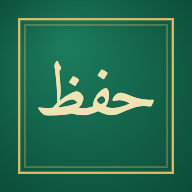
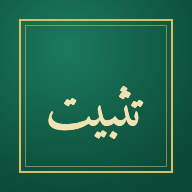
Renommage : Tathbīt (تثبيت), sous-titre « Coran et moutoun » ; icônes, manifeste, e-mails, notifications et textes

Changed region(s): [[0.0938, 0.0938, 0.9062, 0.9062], [0.1875, 0.3125, 0.8125, 0.7188]]

diff --git a/i18n.js b/i18n.js
@@ -149,6 +149,7 @@ window.I18N = {
 "Copier le code": "Copy the code",
 "Coran": "Quran",
 "Coran : texte uthmani du projet Tanzil, embarqué dans le site et vérifié (lecture de Ḥafṣ). Audio : cdn.islamic.network (AlQuran Cloud). Lecteur : tajwīd en couleurs (Islamic Network), traductions (Tanzil : Hamidullah, Saheeh International) et tafsir al-Muyassar (Complexe du Roi Fahd). Moutoun : Wikisource arabe et hadith-api (voir l'écran Réviser pour chaque matn). Versets proches : calculés automatiquement.": "Quran: Uthmani text from the Tanzil project, bundled with the site and verified (Ḥafṣ reading). Audio: cdn.islamic.network (AlQuran Cloud). Reader: colour-coded tajweed (Islamic Network), translations (Tanzil: Hamidullah, Saheeh International) and Tafsir al-Muyassar (King Fahd Complex). Mutun: Arabic Wikisource and hadith-api (see the Review screen for each text). Similar verses: computed automatically.",
+"Coran et moutoun": "Quran and mutun",
 "Correction de la saisie (Coran)": "Checking of typed answers (Quran)",
 "Correction stricte : tout doit être exact (en rouge : mots faux ou manquants).": "Strict checking: everything must be exact (in red: wrong or missing words).",
 "Couleurs du tajwīd : annotation automatique d'Islamic Network (api.alquran.cloud), non relue par un enseignant. Vérifie avec ton professeur ; elle suit une écriture légèrement différente du texte des exercices.": "Tajweed colours: automatic annotation by Islamic Network (api.alquran.cloud), not reviewed by a teacher. Check with your tajweed teacher; it uses a slightly different spelling convention from the exercise text.",
@@ -238,7 +239,7 @@ window.I18N = {
 "Fermer": "Close",
 "Fermer ce code de classe ? Les élèves déjà liés restent liés.": "Close this class code? Students already linked stay linked.",
 "Fichier Word illisible.": "Unreadable Word file.",
-"Fichier non reconnu : choisis une sauvegarde exportée depuis Hifz.": "Unrecognised file: choose a backup exported from Hifz.",
+"Fichier non reconnu : choisis une sauvegarde exportée depuis Tathbīt.": "Unrecognised file: choose a backup exported from Tathbīt.",
 "Fichier trop volumineux (30 Mo maximum).": "File too large (30 MB maximum).",
 "Fichier trop volumineux ({s} Mo, maximum {m} Mo). Découpe-le en plusieurs fichiers (ou prends plusieurs photos) et ajoute-les dans l'ordre du texte : chaque partie est ajoutée à la suite.": "File too large ({s} MB, maximum {m} MB). Split it into several files (or take several photos) and add them in the order of the text: each part is added after the previous one.",
 "Fin + début suivant": "End + next start",
@@ -252,9 +253,6 @@ window.I18N = {
 "Heure du 2e rappel": "Second reminder time",
 "Heure du rappel": "Reminder time",
 "Heure invalide.": "Invalid time.",
-"Hifz est un outil d'aide à la mémorisation, fourni gratuitement et sans garantie. Les textes (Coran, moutoun) viennent de sources publiques citées dans l'application et peuvent contenir des erreurs : vérifie toujours avec ton mushaf et ton enseignant. Tu es responsable de l'usage de ton compte et de la confidentialité de ton mot de passe. Un compte peut être suspendu en cas d'abus.": "Hifz is a memorisation aid, provided free of charge and without warranty. The texts (Quran, mutun) come from public sources cited in the app and may contain errors: always check with your mushaf and your teacher. You are responsible for how your account is used and for keeping your password private. An account may be suspended in case of abuse.",
-"Hifz est un site personnel et gratuit d'aide à la mémorisation du Coran. Responsable du site : contact par e-mail uniquement ({contact}).": "Hifz is a free personal site to help memorise the Quran. Site owner: contact by email only ({contact}).",
-"Hifz – Teste ta mémorisation du Coran": "Hifz – Test your Quran memorisation",
 "Historique des erreurs": "Error history",
 "Identifie d'où vient le verset": "Identify where the verse comes from",
 "Idghām avec ghunna": "Idghām with ghunna",
@@ -629,7 +627,7 @@ window.I18N = {
 "Révision ancienne : cycle de": "Old review: cycle of",
 "Révision ancienne : récite de mémoire ce passage.": "Old review: recite this passage from memory.",
 "Révision du Coran": "Quran review",
-"Révision du Coran (Hifz)": "Quran review (Hifz)",
+"Révision du Coran (Tathbīt)": "Quran review (Tathbīt)",
 "Révision récente (sabqi)": "Recent review (sabqi)",
 "Révision récente : récite de mémoire ce passage.": "Recent review: recite this passage from memory.",
 "Révision récente sur": "Recent review over",
@@ -704,6 +702,9 @@ window.I18N = {
 "Tajwīd": "Tajwīd",
 "Tajwīd (entraînement)": "Tajweed (practice)",
 "Tant que ton compte existe. Tu peux le supprimer à tout moment (Réglages, puis Mon compte) : ton compte et ta progression enregistrée sont alors effacés.": "As long as your account exists. You can delete it at any time (Settings, then My account): your account and saved progress are then erased.",
+"Tathbīt est un outil d'aide à la révision, fourni gratuitement et sans garantie. Les textes (Coran, moutoun) viennent de sources publiques citées dans l'application et peuvent contenir des erreurs : vérifie toujours avec ton mushaf et ton enseignant. Tu es responsable de l'usage de ton compte et de la confidentialité de ton mot de passe. Un compte peut être suspendu en cas d'abus.": "Tathbīt is a review aid, provided free of charge and without warranty. The texts (Quran, mutun) come from public sources cited in the app and may contain errors: always check with your mushaf and your teacher. You are responsible for how your account is used and for keeping your password private. An account may be suspended in case of abuse.",
+"Tathbīt est un site personnel et gratuit d'aide à la révision du Coran et des moutoun. Responsable du site : contact par e-mail uniquement ({contact}).": "Tathbīt is a free personal site to help review the Quran and the mutun. Site owner: contact by email only ({contact}).",
+"Tathbīt – Coran et moutoun": "Tathbīt – Quran and mutun",
 "Taux (%)": "Rate (%)",
 "Te déconnecter ? La progression de cet appareil sera effacée (elle reste dans ton compte).": "Sign out? The progress on this device will be erased (it stays in your account).",
 "Terminé : disponible sans connexion.": "Done: available offline.",
@@ -1136,6 +1137,7 @@ window.I18N = {
 "Copier le code": "انسخ الرمز",
 "Coran": "القرآن",
 "Coran : texte uthmani du projet Tanzil, embarqué dans le site et vérifié (lecture de Ḥafṣ). Audio : cdn.islamic.network (AlQuran Cloud). Lecteur : tajwīd en couleurs (Islamic Network), traductions (Tanzil : Hamidullah, Saheeh International) et tafsir al-Muyassar (Complexe du Roi Fahd). Moutoun : Wikisource arabe et hadith-api (voir l'écran Réviser pour chaque matn). Versets proches : calculés automatiquement.": "القرآن: النص العثماني من مشروع تنزيل، مضمَّن في الموقع ومُتحقَّق منه (قراءة حفص). الصوت: cdn.islamic.network (AlQuran Cloud). القارئ: تجويد ملوَّن (الشبكة الإسلامية) وترجمات (تنزيل: حميد الله، Saheeh International) والتفسير الميسر (مجمع الملك فهد). المتون: ويكي مصدر العربية وhadith-api (انظر شاشة «مراجعة» لكل متن). الآيات المتشابهة: تُحسب تلقائياً.",
+"Coran et moutoun": "القرآن والمتون",
 "Correction de la saisie (Coran)": "تصحيح الإجابة المكتوبة (القرآن)",
 "Correction stricte : tout doit être exact (en rouge : mots faux ou manquants).": "تصحيح صارم: يجب أن يكون كل شيء دقيقاً (بالأحمر: كلمات خاطئة أو ناقصة).",
 "Couleurs du tajwīd : annotation automatique d'Islamic Network (api.alquran.cloud), non relue par un enseignant. Vérifie avec ton professeur ; elle suit une écriture légèrement différente du texte des exercices.": "ألوان التجويد: توسيم آلي من الشبكة الإسلامية (api.alquran.cloud) لم يراجعه معلّم. تحقّق مع معلّم التجويد؛ وهو يتبع رسماً يختلف قليلاً عن نص التمارين.",
@@ -1225,7 +1227,7 @@ window.I18N = {
 "Fermer": "إغلاق",
 "Fermer ce code de classe ? Les élèves déjà liés restent liés.": "إغلاق رمز الفصل هذا؟ يبقى الطلاب المرتبطون مرتبطين.",
 "Fichier Word illisible.": "ملف Word غير قابل للقراءة.",
-"Fichier non reconnu : choisis une sauvegarde exportée depuis Hifz.": "ملف غير معروف: اختر نسخة احتياطية مصدَّرة من «حفظ».",
+"Fichier non reconnu : choisis une sauvegarde exportée depuis Tathbīt.": "ملف غير معروف: اختر نسخة احتياطية مصدَّرة من «تثبيت».",
 "Fichier trop volumineux (30 Mo maximum).": "الملف كبير جداً (الحد الأقصى 30 ميغابايت).",
 "Fichier trop volumineux ({s} Mo, maximum {m} Mo). Découpe-le en plusieurs fichiers (ou prends plusieurs photos) et ajoute-les dans l'ordre du texte : chaque partie est ajoutée à la suite.": "الملف كبير جداً ({s} ميغابايت، الحد الأقصى {m}). قسّمه إلى عدة ملفات (أو التقط عدة صور) وأضفها بترتيب النص: تُضاف كل قطعة بعد التي قبلها.",
 "Fin + début suivant": "الخاتمة + بداية التالية",
@@ -1239,9 +1241,6 @@ window.I18N = {
 "Heure du 2e rappel": "وقت التذكير الثاني",
 "Heure du rappel": "وقت التذكير",
 "Heure invalide.": "وقت غير صالح.",
-"Hifz est un outil d'aide à la mémorisation, fourni gratuitement et sans garantie. Les textes (Coran, moutoun) viennent de sources publiques citées dans l'application et peuvent contenir des erreurs : vérifie toujours avec ton mushaf et ton enseignant. Tu es responsable de l'usage de ton compte et de la confidentialité de ton mot de passe. Un compte peut être suspendu en cas d'abus.": "«حفظ» أداة للمساعدة على الحفظ، تُقدَّم مجاناً ودون ضمان. النصوص (القرآن والمتون) مأخوذة من مصادر عامة مذكورة في التطبيق وقد تحتوي على أخطاء: تحقّق دائماً من مصحفك ومن معلّمك. أنت مسؤول عن استخدام حسابك وعن سرّية كلمة مرورك. يجوز إيقاف الحساب عند إساءة الاستخدام.",
-"Hifz est un site personnel et gratuit d'aide à la mémorisation du Coran. Responsable du site : contact par e-mail uniquement ({contact}).": "«حفظ» موقع شخصي ومجاني للمساعدة على حفظ القرآن. المسؤول عن الموقع: التواصل عبر البريد الإلكتروني فقط ({contact}).",
-"Hifz – Teste ta mémorisation du Coran": "حفظ – اختبر حفظك للقرآن",
 "Historique des erreurs": "سجل الأخطاء",
 "Identifie d'où vient le verset": "حدّد مصدر الآية",
 "Idghām avec ghunna": "إدغام بغنّة",
@@ -1616,7 +1615,7 @@ window.I18N = {
 "Révision ancienne : cycle de": "المراجعة القديمة: دورة من",
 "Révision ancienne : récite de mémoire ce passage.": "مراجعة قديمة: اتلُ هذا المقطع من الذاكرة.",
 "Révision du Coran": "مراجعة القرآن",
-"Révision du Coran (Hifz)": "مراجعة القرآن (حفظ)",
+"Révision du Coran (Tathbīt)": "مراجعة القرآن (تثبيت)",
 "Révision récente (sabqi)": "المراجعة القريبة (السبقي)",
 "Révision récente : récite de mémoire ce passage.": "مراجعة قريبة: اتلُ هذا المقطع من الذاكرة.",
 "Révision récente sur": "المراجعة القريبة خلال",
@@ -1691,6 +1690,9 @@ window.I18N = {
 "Tajwīd": "التجويد",
 "Tajwīd (entraînement)": "التجويد (تدريب)",
 "Tant que ton compte existe. Tu peux le supprimer à tout moment (Réglages, puis Mon compte) : ton compte et ta progression enregistrée sont alors effacés.": "ما دام حسابك قائماً. يمكنك حذفه في أي وقت (الإعدادات ثم حسابي): فيُمحى حسابك وتقدّمك المحفوظ.",
+"Tathbīt est un outil d'aide à la révision, fourni gratuitement et sans garantie. Les textes (Coran, moutoun) viennent de sources publiques citées dans l'application et peuvent contenir des erreurs : vérifie toujours avec ton mushaf et ton enseignant. Tu es responsable de l'usage de ton compte et de la confidentialité de ton mot de passe. Un compte peut être suspendu en cas d'abus.": "«تثبيت» أداة للمساعدة على المراجعة، تُقدَّم مجاناً ودون ضمان. النصوص (القرآن والمتون) مأخوذة من مصادر عامة مذكورة في التطبيق وقد تحتوي على أخطاء: تحقّق دائماً من مصحفك ومن معلّمك. أنت مسؤول عن استخدام حسابك وعن سرّية كلمة مرورك. يجوز إيقاف الحساب عند إساءة الاستخدام.",
+"Tathbīt est un site personnel et gratuit d'aide à la révision du Coran et des moutoun. Responsable du site : contact par e-mail uniquement ({contact}).": "«تثبيت» موقع شخصي ومجاني للمساعدة على مراجعة القرآن والمتون. المسؤول عن الموقع: التواصل عبر البريد الإلكتروني فقط ({contact}).",
+"Tathbīt – Coran et moutoun": "تثبيت – القرآن والمتون",
 "Taux (%)": "النسبة (%)",
 "Te déconnecter ? La progression de cet appareil sera effacée (elle reste dans ton compte).": "هل تريد تسجيل الخروج؟ سيُمسح التقدّم على هذا الجهاز (ويبقى في حسابك).",
 "Terminé : disponible sans connexion.": "تم: متاح دون اتصال.",

diff --git a/index.html b/index.html
@@ -9,9 +9,9 @@
 <link rel="apple-touch-icon" href="icons/apple-touch-icon.png">
 <meta name="apple-mobile-web-app-capable" content="yes">
 <meta name="mobile-web-app-capable" content="yes">
-<meta name="apple-mobile-web-app-title" content="Hifz">
+<meta name="apple-mobile-web-app-title" content="Tathbīt">
 <meta name="apple-mobile-web-app-status-bar-style" content="default">
-<title>Hifz – Teste ta mémorisation du Coran</title>
+<title>Tathbīt – Coran et moutoun</title>
 <link rel="preload" href="fonts/inter-latin.woff2" as="font" type="font/woff2" crossorigin>
 <link rel="preload" href="fonts/amiri-quran-arabic.woff2" as="font" type="font/woff2" crossorigin>
 <link rel="stylesheet" href="fonts/fonts.css">
@@ -202,6 +202,7 @@ button.big{border-radius:14px}
 .hero .logo{width:48px;height:48px;border-radius:50%;background:radial-gradient(circle at 30% 25%,color-mix(in srgb,var(--accent) 70%,#fff),var(--accent));border:2px solid var(--gold);color:var(--gold-soft);
   box-shadow:0 0 0 4px color-mix(in srgb,var(--gold) 22%,transparent)}
 .hero h1{font-size:2.1rem}
+.hero .logo{font-size:.95rem;line-height:1}.hero p.tag{font-weight:600;color:var(--accent);font-size:.95rem;margin-top:2px}
 .bar,.goal{height:8px;border-radius:8px;background:color-mix(in srgb,var(--gold) 22%,var(--line))}
 .bar i,.goal i{background:linear-gradient(90deg,var(--accent),var(--gold));border-radius:8px}
 .stat div{background:color-mix(in srgb,var(--bg) 55%,var(--card));border:1px solid var(--line);border-radius:14px}
@@ -290,7 +291,7 @@ const trp = (n, k, v) => { const [a, b] = lookup(k).split('|'); return fill((LAN
 const LOCALE = () => ({fr: 'fr-FR', en: 'en-GB', ar: 'ar-u-nu-latn'})[LANG];
 function applyLang(){
   document.documentElement.lang = LANG; document.documentElement.dir = LANG === 'ar' ? 'rtl' : 'ltr';
-  document.title = tr('Hifz – Teste ta mémorisation du Coran');
+  document.title = tr('Tathbīt – Coran et moutoun');
   const b = document.getElementById('boot'); if (b) b.textContent = tr('Chargement du texte du Coran…');
 }
 
@@ -719,7 +720,7 @@ function tabHome(){
   const due = dueRefs(), td = days[today()] || 0, st = streak();
   const top = aggErrors(errors.filter(e => e.t >= Date.now() - 7 * 864e5)).slice(0, 3);
   return `
-  <div class="hero"><div class="logo">حفظ</div><div><h1>Hifz</h1><p>${me ? esc(me.user.email) + ' ' + roleChips() : tr('Que ta mémorisation soit bénie.')}</p></div></div>
+  <div class="hero"><div class="logo">تثبيت</div><div><h1>Tathbīt</h1><p class="tag">${tr('Coran et moutoun')}</p><p>${me ? esc(me.user.email) + ' ' + roleChips() : tr('Que ta mémorisation soit bénie.')}</p></div></div>
   ${cloudOn() && !me ? `<div class="card"><h2>${tr('Sauvegarde ta progression')}</h2><p class="sub" style="margin:0 0 8px">${tr('Crée un compte gratuit pour retrouver tes séries, tes erreurs et ton historique sur tous tes appareils.')}</p>
     <div class="row"><button class="pri" data-act="acc-open" data-v="signup">${tr('Créer un compte')}</button><button data-act="acc-open" data-v="login">${tr('Se connecter')}</button></div></div>` : ''}
 
@@ -2022,9 +2023,9 @@ function exportIcs(){
   const d = new Date(), p = n => String(n).padStart(2, '0');
   const ymd = d.getFullYear() + p(d.getMonth() + 1) + p(d.getDate());
   const url = location.protocol.startsWith('http') ? '\\n' + location.href : '';
-  const ics = ['BEGIN:VCALENDAR', 'VERSION:2.0', 'PRODID:-//Hifz//FR', 'BEGIN:VEVENT', 'UID:hifz-rappel-quotidien',
+  const ics = ['BEGIN:VCALENDAR', 'VERSION:2.0', 'PRODID:-//Tathbīt//FR', 'BEGIN:VEVENT', 'UID:hifz-rappel-quotidien',
     'DTSTAMP:' + ymd + 'T000000Z', `DTSTART:${ymd}T${p(h)}${p(m)}00`, 'DURATION:PT15M', 'RRULE:FREQ=DAILY',
-    'SUMMARY:' + tr('Révision du Coran (Hifz)'), 'DESCRIPTION:' + tr('Fais ta révision du jour.') + url,
+    'SUMMARY:' + tr('Révision du Coran (Tathbīt)'), 'DESCRIPTION:' + tr('Fais ta révision du jour.') + url,
     'BEGIN:VALARM', 'TRIGGER:PT0S', 'ACTION:DISPLAY', 'DESCRIPTION:' + tr('Révision du Coran'), 'END:VALARM', 'END:VEVENT', 'END:VCALENDAR'].join('\r\n');
   download('rappel-hifz.ics', ics, 'text/calendar');
 }
@@ -2103,7 +2104,7 @@ async function importFile(f){
     store.set('hifz.cfg', d.cfg || {}); store.set('hifz.stats', d.stats); store.set('hifz.sched', d.sched || {});
     store.set('hifz.days', d.days || {}); store.set('hifz.custom', d.custom || []); store.set('hifz.errors', d.errors || []); store.set('hifz.plan', d.plan || null);
     location.reload();
-  } catch { alert(tr('Fichier non reconnu : choisis une sauvegarde exportée depuis Hifz.')); }
+  } catch { alert(tr('Fichier non reconnu : choisis une sauvegarde exportée depuis Tathbīt.')); }
 }
 
 /* ---------- import d'un matn depuis une photo, un PDF ou un fichier Word : tout est lu DANS le navigateur ---------- */
@@ -2690,7 +2691,7 @@ function results(){
 }
 
 /* ---------- compte (Supabase) : inscription, connexion, synchronisation, espace admin ---------- */
-const APP_VERSION = '23 oct. 2026 · v51';
+const APP_VERSION = '23 oct. 2026 · v52';
 async function forceUpdate(el){
   if (!navigator.onLine) return alert(tr('Pas de connexion : connecte-toi à internet pour mettre à jour.'));
   el.disabled = true; el.textContent = tr('Mise à jour…');
@@ -2891,7 +2892,7 @@ function renderAccount(){
   const gate = cloudOn() && !me; acc.fromGate = gate;
   const langBar = `<div class="langs">${Object.entries(LANGS).map(([k, n]) => `<button class="${LANG === k ? 'sel' : ''}" data-act="lang" data-v="${k}" lang="${k}">${n}</button>`).join('')}</div>`;
   $app.innerHTML = `${gate ? langBar : `<div class="top"><button class="link" data-act="acc-back">${tr('← Retour')}</button><span>${tr('Compte')}</span></div>`}
-    ${gate ? `<div class="hero" style="margin-top:8px"><div class="logo">حفظ</div><div><h1>Hifz</h1><p>${tr("Crée un compte ou connecte-toi pour accéder à l'application.")}</p></div></div>` : `<h1 style="margin-top:8px">${tr('Mon compte')}</h1>`}
+    ${gate ? `<div class="hero" style="margin-top:8px"><div class="logo">تثبيت</div><div><h1>Tathbīt</h1><p class="tag">${tr('Coran et moutoun')}</p><p>${tr("Crée un compte ou connecte-toi pour accéder à l'application.")}</p></div></div>` : `<h1 style="margin-top:8px">${tr('Mon compte')}</h1>`}
     ${acc.msg && cloudOn() && sb ? `<div id="acc-msg" class="fb ${acc.ok ? 'ok' : 'ko'}">${esc(acc.msg)}</div>` : ''}
     ${acc.resend && !me && sb && !acc.mode.startsWith('newp') ? `<p style="margin:0 0 10px;text-align:center"><button class="link" data-act="acc-resend">✉ ${tr("Renvoyer l'e-mail de confirmation")}</button></p>` : ''}${body}`;
   clearTimeout(msgTimer);
@@ -3125,7 +3126,7 @@ async function remAction(act){
     else if (act === 'rem-test'){
       if (Notification.permission !== 'granted') throw new Error(tr('Notifications refusées : autorise-les dans les réglages de ton téléphone.'));
       const reg = await navigator.serviceWorker.ready;
-      await reg.showNotification('Hifz', {body: tr("C'est l'heure de ta révision 📖"), icon: 'icons/icon-192.png', tag: 'hifz-test'});
+      await reg.showNotification('Tathbīt', {body: tr("C'est l'heure de ta révision 📖"), icon: 'icons/icon-192.png', tag: 'hifz-test'});
       remMsg(tr('Notification de test envoyée.'), true);
     }
   } catch (e){ remMsg(friendly(e), false); }
@@ -3144,7 +3145,7 @@ function renderLegal(){
   $app.innerHTML = `<div class="top"><button class="link" data-act="legal-back">${tr('← Retour')}</button><span>${tr('Confidentialité')}</span></div>
     <h1 style="margin-top:8px">${tr("Confidentialité et conditions d'utilisation")}</h1>
     <p class="sub">${tr('Dernière mise à jour : {d}', {d: date})}</p>
-    ${sec('Qui est responsable ?', [tr("Hifz est un site personnel et gratuit d'aide à la mémorisation du Coran. Responsable du site : contact par e-mail uniquement ({contact}).", {contact})])}
+    ${sec('Qui est responsable ?', [tr("Tathbīt est un site personnel et gratuit d'aide à la révision du Coran et des moutoun. Responsable du site : contact par e-mail uniquement ({contact}).", {contact})])}
     ${sec('Quelles données ?', [tr("Compte : ton adresse e-mail, ton mot de passe (transmis au service d'authentification Supabase, qui le stocke de façon sécurisée ; ce site ne le conserve pas), la date d'inscription, ta dernière activité et ton rôle."),
       tr("Progression : tes statistiques, ton historique d'erreurs (y compris les réponses que tu saisis), ton plan de mémorisation, tes réglages et les textes que tu ajoutes toi-même."),
       tr("Rappels (facultatif) : si tu actives les notifications, l'adresse technique de ton appareil pour les notifications (fournie par Apple, Google ou Mozilla), l'heure choisie, ton fuseau horaire et ta langue sont enregistrés pour t'envoyer le rappel, qui transite par le service de notifications de ton système. Tu peux les désactiver à tout moment dans Réglages."),
@@ -3160,7 +3161,7 @@ function renderLegal(){
     ${sec('Stockage sur ton appareil', [tr("Ce site n'utilise ni cookies publicitaires ni outil de mesure d'audience. Il garde sur ton appareil (stockage local et cache du navigateur) ta session, ta progression, les fichiers de l'application pour fonctionner hors ligne et, si tu les télécharges, les fichiers audio des sourates choisies."),
       tr("Les photos et fichiers que tu importes pour ajouter un matn sont lus directement sur ton appareil : ils ne sont pas envoyés à un serveur.")])}
     ${sec('Sécurité', [tr("Les échanges sont chiffrés (HTTPS) et l'accès aux données est limité par des règles de la base de données : chacun ne voit que ses propres données, seul l'administrateur voit l'ensemble.")])}
-    ${sec("Conditions d'utilisation", [tr("Hifz est un outil d'aide à la mémorisation, fourni gratuitement et sans garantie. Les textes (Coran, moutoun) viennent de sources publiques citées dans l'application et peuvent contenir des erreurs : vérifie toujours avec ton mushaf et ton enseignant. Tu es responsable de l'usage de ton compte et de la confidentialité de ton mot de passe. Un compte peut être suspendu en cas d'abus.")])}
+    ${sec("Conditions d'utilisation", [tr("Tathbīt est un outil d'aide à la révision, fourni gratuitement et sans garantie. Les textes (Coran, moutoun) viennent de sources publiques citées dans l'application et peuvent contenir des erreurs : vérifie toujours avec ton mushaf et ton enseignant. Tu es responsable de l'usage de ton compte et de la confidentialité de ton mot de passe. Un compte peut être suspendu en cas d'abus.")])}
     ${sec('Modifications', [tr("Cette page peut évoluer ; la date de dernière mise à jour est indiquée en haut.")])}`;
   window.scrollTo(0, 0);
 }

diff --git a/supabase/functions/send-reminders/index.ts b/supabase/functions/send-reminders/index.ts
@@ -12,9 +12,9 @@ import { SMTPClient } from 'https://deno.land/x/denomailer@1.6.0/mod.ts';
 type Sub = { id: number; user_id: string; endpoint: string; p256dh: string; auth: string; remind_time: string; remind_time2: string | null; tz: string; lang: string; last_sent: string | null; last_sent2: string | null };
 
 const MSG: Record<string, { title: string; plain: string; due: (n: number) => string; late: string }> = {
-  fr: { title: 'Hifz', plain: "C'est l'heure de ta révision 📖", due: (n) => `${n} verset${n > 1 ? 's' : ''} à revoir aujourd'hui 📖`, late: "Il n'est pas trop tard pour ta révision du jour 🌙" },
-  en: { title: 'Hifz', plain: 'Time for your review 📖', due: (n) => `${n} verse${n !== 1 ? 's' : ''} to review today 📖`, late: "It's not too late for today's review 🌙" },
-  ar: { title: 'حفظ', plain: 'حان وقت مراجعتك 📖', due: (n) => `${n} ${n === 1 ? 'آية' : 'آيات'} للمراجعة اليوم 📖`, late: 'لم يفت الأوان بعد لمراجعة اليوم 🌙' },
+  fr: { title: 'Tathbīt', plain: "C'est l'heure de ta révision 📖", due: (n) => `${n} verset${n > 1 ? 's' : ''} à revoir aujourd'hui 📖`, late: "Il n'est pas trop tard pour ta révision du jour 🌙" },
+  en: { title: 'Tathbīt', plain: 'Time for your review 📖', due: (n) => `${n} verse${n !== 1 ? 's' : ''} to review today 📖`, late: "It's not too late for today's review 🌙" },
+  ar: { title: 'تثبيت', plain: 'حان وقت مراجعتك 📖', due: (n) => `${n} ${n === 1 ? 'آية' : 'آيات'} للمراجعة اليوم 📖`, late: 'لم يفت الأوان بعد لمراجعة اليوم 🌙' },
 };
 
 // date (AAAA-MM-JJ) et minutes écoulées dans la journée, dans le fuseau de l'appareil
@@ -39,9 +39,9 @@ function decide(sub: Sub, now: Date) {
 }
 
 const REQ = {
-  fr: (e: string) => ({ title: 'Hifz · demande enseignant', body: `${e} demande à devenir enseignant.` }),
-  en: (e: string) => ({ title: 'Hifz · teacher request', body: `${e} asks to become a teacher.` }),
-  ar: (e: string) => ({ title: 'حفظ · طلب معلّم', body: `${e} يطلب أن يصبح معلّماً.` }),
+  fr: (e: string) => ({ title: 'Tathbīt · demande enseignant', body: `${e} demande à devenir enseignant.` }),
+  en: (e: string) => ({ title: 'Tathbīt · teacher request', body: `${e} asks to become a teacher.` }),
+  ar: (e: string) => ({ title: 'تثبيت · طلب معلّم', body: `${e} يطلب أن يصبح معلّماً.` }),
 };
 
 // demandes d'enseignant pas encore signalées : notification aux appareils des admins + e-mail aux admins (si SMTP configuré)
@@ -68,8 +68,8 @@ async function notifyRequests(db: ReturnType<typeof createClient>) {
     if (smtpUser && smtpPass) {
       try {
         const c = new SMTPClient({ connection: { hostname: 'smtp.gmail.com', port: 465, tls: true, auth: { username: smtpUser, password: smtpPass } } });
-        await c.send({ from: smtpUser, to: (admins ?? []).map((a: { email: string }) => a.email), subject: 'Hifz : demande pour devenir enseignant',
-          content: `${email} demande à devenir enseignant.\n\nPour accepter ou refuser : Hifz → Réglages → Compte → Espace admin → « Demandes d'enseignant ».` });
+        await c.send({ from: smtpUser, to: (admins ?? []).map((a: { email: string }) => a.email), subject: 'Tathbīt : demande pour devenir enseignant',
+          content: `${email} demande à devenir enseignant.\n\nPour accepter ou refuser : Tathbīt → Réglages → Compte → Espace admin → « Demandes d'enseignant ».` });
         await c.close(); ok = true;
       } catch (e) { console.error('mail admin', (e as Error).message); }
     }
@@ -89,9 +89,9 @@ function weekSummary(days: Record<string, number>, now: Date) {
   return { total, active, streak };
 }
 const WK = {
-  fr: { subject: 'Hifz : ta semaine', body: (w: { total: number; active: number; streak: number }) => `Cette semaine : ${w.total} réponse${w.total > 1 ? 's' : ''}, ${w.active} jour${w.active > 1 ? 's' : ''} actif${w.active > 1 ? 's' : ''} sur 7.\n${w.active === 0 ? "Une petite révision aujourd'hui relancera la régularité." : 'Continue comme ça, la régularité fait la mémorisation.'}\n\nPour ne plus recevoir ce résumé : Hifz → Réglages → Compte.` },
-  en: { subject: 'Hifz: your week', body: (w: { total: number; active: number; streak: number }) => `This week: ${w.total} answer${w.total !== 1 ? 's' : ''}, ${w.active} active day${w.active !== 1 ? 's' : ''} out of 7.\n${w.active === 0 ? 'A short review today will restart your routine.' : 'Keep going: regularity builds memorisation.'}\n\nTo stop receiving this summary: Hifz → Settings → Account.` },
-  ar: { subject: 'حفظ: أسبوعك', body: (w: { total: number; active: number; streak: number }) => `هذا الأسبوع: ${w.total} إجابة، و${w.active} أيام نشطة من 7.\n${w.active === 0 ? 'مراجعة قصيرة اليوم تعيد لك انتظامك.' : 'واصل: الانتظام يصنع الحفظ.'}\n\nلإيقاف هذا الملخص: حفظ ← الإعدادات ← الحساب.` },
+  fr: { subject: 'Tathbīt : ta semaine', body: (w: { total: number; active: number; streak: number }) => `Cette semaine : ${w.total} réponse${w.total > 1 ? 's' : ''}, ${w.active} jour${w.active > 1 ? 's' : ''} actif${w.active > 1 ? 's' : ''} sur 7.\n${w.active === 0 ? "Une petite révision aujourd'hui relancera la régularité." : 'Continue comme ça, la régularité fait la mémorisation.'}\n\nPour ne plus recevoir ce résumé : Tathbīt → Réglages → Compte.` },
+  en: { subject: 'Tathbīt: your week', body: (w: { total: number; active: number; streak: number }) => `This week: ${w.total} answer${w.total !== 1 ? 's' : ''}, ${w.active} active day${w.active !== 1 ? 's' : ''} out of 7.\n${w.active === 0 ? 'A short review today will restart your routine.' : 'Keep going: regularity builds memorisation.'}\n\nTo stop receiving this summary: Tathbīt → Settings → Account.` },
+  ar: { subject: 'تثبيت: أسبوعك', body: (w: { total: number; active: number; streak: number }) => `هذا الأسبوع: ${w.total} إجابة، و${w.active} أيام نشطة من 7.\n${w.active === 0 ? 'مراجعة قصيرة اليوم تعيد لك انتظامك.' : 'واصل: الانتظام يصنع الحفظ.'}\n\nلإيقاف هذا الملخص: تثبيت ← الإعدادات ← الحساب.` },
 };
 // WK:end
 
@@ -118,9 +118,9 @@ async function sendWeekly(db: ReturnType<typeof createClient>, now: Date) {
 }
 
 const MSGN = {
-  fr: (e: string) => ({ title: 'Hifz · nouveau message', body: `Message de ${e}` }),
-  en: (e: string) => ({ title: 'Hifz · new message', body: `Message from ${e}` }),
-  ar: (e: string) => ({ title: 'حفظ · رسالة جديدة', body: `رسالة من ${e}` }),
+  fr: (e: string) => ({ title: 'Tathbīt · nouveau message', body: `Message de ${e}` }),
+  en: (e: string) => ({ title: 'Tathbīt · new message', body: `Message from ${e}` }),
+  ar: (e: string) => ({ title: 'تثبيت · رسالة جديدة', body: `رسالة من ${e}` }),
 };
 
 // messages enseignant ↔ élève pas encore signalés : notification au destinataire (sans le texte du message)

diff --git a/supabase/emails/reset-password.html b/supabase/emails/reset-password.html
@@ -2,17 +2,17 @@
 <html lang="fr"><body style="margin:0;padding:24px;background:#f5efe0;font-family:Arial,Helvetica,sans-serif;color:#222">
 <table role="presentation" width="100%" cellpadding="0" cellspacing="0"><tr><td align="center">
 <table role="presentation" width="480" cellpadding="0" cellspacing="0" style="max-width:480px;background:#fffdf6;border:1px solid #e4d9bd;border-radius:12px">
-<tr><td style="padding:24px 24px 8px;text-align:center"><div style="font-size:34px;line-height:1.2">حفظ</div><div style="font-size:18px;font-weight:bold;letter-spacing:.5px">Hifz</div></td></tr>
+<tr><td style="padding:24px 24px 8px;text-align:center"><div style="font-size:34px;line-height:1.2">تثبيت</div><div style="font-size:18px;font-weight:bold;letter-spacing:.5px">Tathbīt</div></td></tr>
 <tr><td style="padding:8px 24px 0">
-<h2 style="margin:12px 0 6px;font-size:18px;text-align:left">Réinitialise ton mot de passe</h2><p style="margin:0 0 14px;line-height:1.6;text-align:left">Tu as demandé à changer ton mot de passe Hifz. Clique sur le bouton pour en choisir un nouveau.</p>
+<h2 style="margin:12px 0 6px;font-size:18px;text-align:left">Réinitialise ton mot de passe</h2><p style="margin:0 0 14px;line-height:1.6;text-align:left">Tu as demandé à changer ton mot de passe Tathbīt. Clique sur le bouton pour en choisir un nouveau.</p>
 <p style="text-align:center;margin:18px 0"><a href="{{ .ConfirmationURL }}" style="background:#7a5c1e;color:#fff;text-decoration:none;padding:12px 22px;border-radius:8px;display:inline-block;font-weight:bold">Choisir un nouveau mot de passe</a></p>
 <p style="margin:0 0 18px;font-size:13px;color:#666;line-height:1.5;text-align:left">Si tu n'es pas à l'origine de cette demande, ignore ce message : ton mot de passe ne changera pas.</p>
 <hr style="border:0;border-top:1px solid #e4d9bd;margin:16px 0">
-<h2 style="margin:12px 0 6px;font-size:18px;text-align:left">Reset your password</h2><p style="margin:0 0 14px;line-height:1.6;text-align:left">You asked to change your Hifz password. Click the button to choose a new one.</p>
+<h2 style="margin:12px 0 6px;font-size:18px;text-align:left">Reset your password</h2><p style="margin:0 0 14px;line-height:1.6;text-align:left">You asked to change your Tathbīt password. Click the button to choose a new one.</p>
 <p style="text-align:center;margin:18px 0"><a href="{{ .ConfirmationURL }}" style="background:#7a5c1e;color:#fff;text-decoration:none;padding:12px 22px;border-radius:8px;display:inline-block;font-weight:bold">Choose a new password</a></p>
 <p style="margin:0 0 18px;font-size:13px;color:#666;line-height:1.5;text-align:left">If you did not request this, ignore this message: your password will not change.</p>
 <hr style="border:0;border-top:1px solid #e4d9bd;margin:16px 0">
-<h2 dir="rtl" style="margin:12px 0 6px;font-size:18px;text-align:right">إعادة تعيين كلمة المرور</h2><p dir="rtl" style="margin:0 0 14px;line-height:1.6;text-align:right">طلبتَ تغيير كلمة مرور حفظ. اضغط على الزر لاختيار كلمة جديدة.</p>
+<h2 dir="rtl" style="margin:12px 0 6px;font-size:18px;text-align:right">إعادة تعيين كلمة المرور</h2><p dir="rtl" style="margin:0 0 14px;line-height:1.6;text-align:right">طلبتَ تغيير كلمة مرور تثبيت. اضغط على الزر لاختيار كلمة جديدة.</p>
 <p style="text-align:center;margin:18px 0"><a href="{{ .ConfirmationURL }}" style="background:#7a5c1e;color:#fff;text-decoration:none;padding:12px 22px;border-radius:8px;display:inline-block;font-weight:bold">اختيار كلمة مرور جديدة</a></p>
 <p dir="rtl" style="margin:0 0 18px;font-size:13px;color:#666;line-height:1.5;text-align:right">إن لم تطلب ذلك فتجاهل الرسالة: لن تتغير كلمة مرورك.</p>
 </td></tr></table></td></tr></table></body></html>

diff --git a/supabase/emails/confirm-signup.html b/supabase/emails/confirm-signup.html
@@ -2,17 +2,17 @@
 <html lang="fr"><body style="margin:0;padding:24px;background:#f5efe0;font-family:Arial,Helvetica,sans-serif;color:#222">
 <table role="presentation" width="100%" cellpadding="0" cellspacing="0"><tr><td align="center">
 <table role="presentation" width="480" cellpadding="0" cellspacing="0" style="max-width:480px;background:#fffdf6;border:1px solid #e4d9bd;border-radius:12px">
-<tr><td style="padding:24px 24px 8px;text-align:center"><div style="font-size:34px;line-height:1.2">حفظ</div><div style="font-size:18px;font-weight:bold;letter-spacing:.5px">Hifz</div></td></tr>
+<tr><td style="padding:24px 24px 8px;text-align:center"><div style="font-size:34px;line-height:1.2">تثبيت</div><div style="font-size:18px;font-weight:bold;letter-spacing:.5px">Tathbīt</div></td></tr>
 <tr><td style="padding:8px 24px 0">
-<h2 style="margin:12px 0 6px;font-size:18px;text-align:left">Confirme ton adresse e-mail</h2><p style="margin:0 0 14px;line-height:1.6;text-align:left">Merci de t'être inscrit sur Hifz. Clique sur le bouton pour confirmer ton adresse et activer ton compte.</p>
+<h2 style="margin:12px 0 6px;font-size:18px;text-align:left">Confirme ton adresse e-mail</h2><p style="margin:0 0 14px;line-height:1.6;text-align:left">Merci de t'être inscrit sur Tathbīt. Clique sur le bouton pour confirmer ton adresse et activer ton compte.</p>
 <p style="text-align:center;margin:18px 0"><a href="{{ .ConfirmationURL }}" style="background:#7a5c1e;color:#fff;text-decoration:none;padding:12px 22px;border-radius:8px;display:inline-block;font-weight:bold">Confirmer mon e-mail</a></p>
 <p style="margin:0 0 18px;font-size:13px;color:#666;line-height:1.5;text-align:left">Si tu n'as pas créé de compte, ignore simplement ce message.</p>
 <hr style="border:0;border-top:1px solid #e4d9bd;margin:16px 0">
-<h2 style="margin:12px 0 6px;font-size:18px;text-align:left">Confirm your email address</h2><p style="margin:0 0 14px;line-height:1.6;text-align:left">Thanks for signing up to Hifz. Click the button to confirm your address and activate your account.</p>
+<h2 style="margin:12px 0 6px;font-size:18px;text-align:left">Confirm your email address</h2><p style="margin:0 0 14px;line-height:1.6;text-align:left">Thanks for signing up to Tathbīt. Click the button to confirm your address and activate your account.</p>
 <p style="text-align:center;margin:18px 0"><a href="{{ .ConfirmationURL }}" style="background:#7a5c1e;color:#fff;text-decoration:none;padding:12px 22px;border-radius:8px;display:inline-block;font-weight:bold">Confirm my email</a></p>
 <p style="margin:0 0 18px;font-size:13px;color:#666;line-height:1.5;text-align:left">If you did not create an account, just ignore this message.</p>
 <hr style="border:0;border-top:1px solid #e4d9bd;margin:16px 0">
-<h2 dir="rtl" style="margin:12px 0 6px;font-size:18px;text-align:right">أكّد بريدك الإلكتروني</h2><p dir="rtl" style="margin:0 0 14px;line-height:1.6;text-align:right">شكراً لتسجيلك في حفظ. اضغط على الزر لتأكيد بريدك وتفعيل حسابك.</p>
+<h2 dir="rtl" style="margin:12px 0 6px;font-size:18px;text-align:right">أكّد بريدك الإلكتروني</h2><p dir="rtl" style="margin:0 0 14px;line-height:1.6;text-align:right">شكراً لتسجيلك في تثبيت. اضغط على الزر لتأكيد بريدك وتفعيل حسابك.</p>
 <p style="text-align:center;margin:18px 0"><a href="{{ .ConfirmationURL }}" style="background:#7a5c1e;color:#fff;text-decoration:none;padding:12px 22px;border-radius:8px;display:inline-block;font-weight:bold">تأكيد بريدي</a></p>
 <p dir="rtl" style="margin:0 0 18px;font-size:13px;color:#666;line-height:1.5;text-align:right">إن لم تُنشئ حساباً فتجاهل هذه الرسالة.</p>
 </td></tr></table></td></tr></table></body></html>

diff --git a/sw.js b/sw.js
@@ -1,4 +1,4 @@
-// Service worker Hifz : l'application fonctionne hors ligne, mais NE MET JAMAIS EN CACHE les échanges de compte (Supabase).
+// Service worker Tathbīt : l'application fonctionne hors ligne, mais NE MET JAMAIS EN CACHE les échanges de compte (Supabase).
 const SHELL = 'hifz-shell-v8', RUNTIME = 'hifz-runtime-v8', AUDIO = 'hifz-audio-v1';   // AUDIO : sourates téléchargées par l'utilisateur (jamais effacé automatiquement)
 const FILES = ['./', './index.html', './config.js', './i18n.js', './manifest.webmanifest', './icon.svg', './quran.js', './huruf.js', './moutoun.js', './mutashabihat.js',
   './icons/icon-192.png', './icons/icon-512.png', './icons/apple-touch-icon.png',
@@ -42,7 +42,7 @@ async function audioResponse(req){
 self.addEventListener('push', e => {
   let d = {};
   try { d = e.data ? e.data.json() : {}; } catch { d = {body: e.data ? e.data.text() : ''}; }
-  e.waitUntil(self.registration.showNotification(d.title || 'Hifz', {
+  e.waitUntil(self.registration.showNotification(d.title || 'Tathbīt', {
     body: d.body || '', icon: './icons/icon-192.png', badge: './icons/icon-192.png', tag: 'hifz-reminder', data: {url: d.url || './'}}));
 });
 self.addEventListener('notificationclick', e => {

diff --git a/tests/index.html b/tests/index.html
@@ -1,13 +1,13 @@
 <!doctype html>
 <html lang="fr"><head><meta charset="utf-8"><meta name="viewport" content="width=device-width,initial-scale=1">
-<title>Hifz – tests</title>
+<title>Tathbīt – tests</title>
 <style>
   body{font:15px/1.5 system-ui,sans-serif;margin:16px auto;max-width:760px;padding:0 16px}
   .ok{color:#1a7f37}.ko{color:#c0392b;font-weight:600}.mut{color:#777}
   li{margin:2px 0;list-style:none}pre{white-space:pre-wrap;margin:2px 0 6px 20px;font-size:13px}
   iframe{position:fixed;right:0;bottom:0;width:390px;height:520px;border:1px solid #ccc;background:#fff;opacity:.0001;pointer-events:none}
 </style></head><body>
-<h1>Tests Hifz</h1>
+<h1>Tests Tathbīt</h1>
 <p class="mut">Ouvre cette page depuis <code>http://localhost</code> (ex. <code>python3 -m http.server 8765</code> dans le dossier <code>hifz</code>, puis <code>/tests/</code>).
 Les tests pilotent la vraie application dans un cadre invisible, avec de vrais clics. Ta progression locale est sauvegardée puis restaurée.</p>
 <p id="sum"><b>En cours…</b></p><ul id="out"></ul>

diff --git a/tests/tests.js b/tests/tests.js
@@ -1,4 +1,4 @@
-/* Tests de l'application Hifz : pilotent index.html dans un <iframe> avec de vrais clics.
+/* Tests de l'application Tathbīt : pilotent index.html dans un <iframe> avec de vrais clics.
    Résultat : window.__result = {passed, failed, results:[{name, ok, err}]} et affichage dans la page. */
 (async () => {
   const local = ['localhost', '127.0.0.1', '[::1]'].includes(location.hostname);

diff --git a/supabase/README.md b/supabase/README.md
@@ -60,20 +60,20 @@ Avec **Resend** (recommandé par Supabase ; plan gratuit : 3 000 e-mails/mois et
 1. resend.com → créer le compte → **Domains → Add Domain** → ajouter les enregistrements DNS demandés chez ton registraire, puis **Verify**.
 2. Resend → **API Keys → Create API Key** (accès « Sending access ») : copie la clé (elle commence par `re_`).
 3. Supabase → **Authentication → Emails → SMTP Settings** (le menu peut s'appeler « Auth → SMTP ») → activer **Custom SMTP** :
-   - Sender email : une adresse de ton domaine, ex. `noreply@mail.ton-domaine.fr` · Sender name : `Hifz`
+   - Sender email : une adresse de ton domaine, ex. `noreply@mail.ton-domaine.fr` · Sender name : `Tathbīt`
    - Host : `smtp.resend.com` · Port : `465` · Username : `resend` · Password : la clé API.
 4. Supabase → **Authentication → Rate Limits** : avec un SMTP personnalisé, la limite démarre à 30 e-mails/heure ; relève-la si besoin.
 5. **Authentication → URL Configuration** : *Site URL* = `https://msake2026.github.io/hifz/` ; ajoute la même adresse dans *Redirect URLs*.
-6. **Authentication → Emails → Templates** : colle le contenu de `supabase/emails/confirm-signup.html` (modèle « Confirm sign up », sujet : `Confirm your email · Hifz`) et de `supabase/emails/reset-password.html` (modèle « Reset password », sujet : `Reset your password · Hifz`). Le message contient les trois langues (français, anglais, arabe) et le sujet est toujours en anglais (Supabase n'accepte qu'un seul sujet par modèle).
+6. **Authentication → Emails → Templates** : colle le contenu de `supabase/emails/confirm-signup.html` (modèle « Confirm sign up », sujet : `Confirm your email · Tathbīt`) et de `supabase/emails/reset-password.html` (modèle « Reset password », sujet : `Reset your password · Tathbīt`). Le message contient les trois langues (français, anglais, arabe) et le sujet est toujours en anglais (Supabase n'accepte qu'un seul sujet par modèle).
 7. Test : crée un compte avec une adresse qui n'est pas dans l'équipe Supabase ; l'e-mail doit arriver (regarde les courriers indésirables). Dans l'application, le bouton « Renvoyer l'e-mail de confirmation » apparaît après l'inscription ou si la connexion est refusée parce que l'e-mail n'est pas confirmé (une relance toutes les 60 s au plus).
 
 ### Variante sans nom de domaine : Gmail comme service d'envoi
 
 Pour démarrer gratuitement (environ 500 e-mails par jour pour un compte Gmail personnel d'après des sources tierces ; non confirmé par la documentation de Supabase) :
-1. Crée un compte Gmail **dédié** à Hifz (ne réutilise pas ton adresse principale).
+1. Crée un compte Gmail **dédié** à Tathbīt (ne réutilise pas ton adresse principale).
 2. Active la **validation en deux étapes** (myaccount.google.com → Sécurité). Sans elle, les mots de passe d'application n'existent pas. Ils ne sont pas proposés avec des clés de sécurité seules, un compte professionnel/scolaire ou la Protection avancée.
-3. Ouvre https://myaccount.google.com/apppasswords, donne un nom (ex. « Hifz Supabase ») : Google affiche un code de 16 caractères, montré une seule fois. Changer le mot de passe du compte Google révoque ce code.
-4. Supabase → Authentication → SMTP Settings → Custom SMTP : Sender email = l'adresse Gmail dédiée · Sender name = `Hifz` · Host = `smtp.gmail.com` · Port = `465` (ou `587`) · Username = l'adresse Gmail complète · Password = le code de 16 caractères.
+3. Ouvre https://myaccount.google.com/apppasswords, donne un nom (ex. « Tathbīt Supabase ») : Google affiche un code de 16 caractères, montré une seule fois. Changer le mot de passe du compte Google révoque ce code.
+4. Supabase → Authentication → SMTP Settings → Custom SMTP : Sender email = l'adresse Gmail dédiée · Sender name = `Tathbīt` · Host = `smtp.gmail.com` · Port = `465` (ou `587`) · Username = l'adresse Gmail complète · Password = le code de 16 caractères.
 5. Puis les étapes 4 à 7 ci-dessus (limite horaire, URL de site, modèles, test). Si Google bloque l'envoi ou si le nombre d'inscrits dépasse la limite quotidienne, passe à un nom de domaine et à Resend.
 
 Ne mets jamais la clé API dans le dépôt : elle ne va que dans le champ « Password » de Supabase.

diff --git a/README.md b/README.md
@@ -1,4 +1,4 @@
-# Hifz – tester sa mémorisation du Coran et des moutoun
+# Tathbīt – réviser le Coran et les moutoun
 
 Application web (un seul dossier, sans serveur) : exercices de mémorisation, historique des erreurs, révision espacée, lecteur du texte complet, audio verset par verset.
 

diff --git a/AUDIT-CONTENU.md b/AUDIT-CONTENU.md
@@ -1,4 +1,4 @@
-# Audit du contenu de Hifz (22 oct. 2026)
+# Audit du contenu de Tathbīt (22 oct. 2026)
 
 Règle : aucun verset, vers ou règle n'est écrit de mémoire ; tout vient d'une source citée et vérifiable.
 

diff --git a/CHECKLIST.md b/CHECKLIST.md
@@ -1,4 +1,4 @@
-# Avant d'ouvrir Hifz au public
+# Avant d'ouvrir Tathbīt au public
 
 À relire le jour où tu invites du monde (ce que le code peut vérifier seul est déjà contrôlé à chaque `git push`).
 
